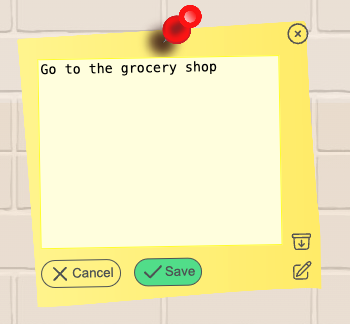
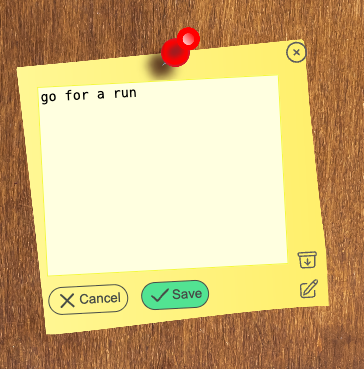
refactored css, changed background

diff --git a/src/App.scss b/src/App.scss
@@ -1,3 +1,5 @@
+@import "./variables.scss";
+
 * {
   box-sizing: border-box;
 }
@@ -6,14 +8,10 @@ body {
   margin: 0;
   font-family: Arial, Helvetica, sans-serif;
   min-height: auto;
-  background: #8a8599;
-  background: linear-gradient(
-    0deg,
-    rgba(138, 133, 153, 1) 0%,
-    rgba(191, 205, 222, 1) 100%
-  );
+  background-image: url("../src/assets/wooden-desk2.jpg");
+  background-size: cover;
   height: 100vh;
-  color: #474c47;
+  color: $dark-grey;
 }
 
 .homepage-container {
@@ -35,7 +33,7 @@ body {
     max-width: 100%;
     padding: 10px;
     outline: none;
-    border: 2px solid rgb(244 248 61);
+    border: 2px solid #{$citrus-color};
     border-bottom: 0;
   }
 
@@ -43,10 +41,10 @@ body {
     width: 100%;
     text-transform: uppercase;
     font-weight: bold;
-    background-color: rgb(244 248 61);
+    background-color: $citrus-color;
 
-    color: #474c47;
-    border: 1px solid rgb(244 248 61);
+    color: $dark-grey;
+    border: 1px solid $citrus-color;
 
     font-size: 16px;
     cursor: pointer;
@@ -55,8 +53,8 @@ body {
     outline: none;
 
     &:hover {
-      background-color: rgb(245, 195, 11);
-      border: 1px solid rgb(245, 195, 11);
+      background-color: $dark-yellow;
+      border: 1px solid $dark-yellow;
     }
   }
 }
@@ -64,7 +62,7 @@ body {
 .char-limit {
   font-size: smaller;
   font-family: "Courier New", Courier, monospace;
-  color: rgb(88, 94, 94);
+  color: $dark-grey;
 }
 
 .note {
@@ -96,7 +94,7 @@ body {
     .edit-input {
       min-height: 190px;
       max-height: 400px;
-      border: 1px solid yellow;
+      border: 1px solid $citrus-color;
       margin-bottom: 0.5em;
       background-color: lightyellow;
       width: 100%;
@@ -106,25 +104,25 @@ body {
     .cancel-btn {
       background-color: transparent;
       margin-right: 1em;
-      color: rgb(88, 94, 94);
-      border: 1px solid rgb(88, 94, 94);
+      color: $dark-grey;
+      border: 1px solid $dark-grey;
     }
 
     .cancel-btn:hover {
       transition: 0.2s ease-in;
-      background-color: #efbd3c;
+      background-color: $dark-yellow;
     }
 
     .save-btn {
       background-color: rgb(82 227 146);
-      color: rgb(88, 94, 94);
-      border: 1px solid rgb(88, 94, 94);
+      color: $dark-grey;
+      border: 1px solid $dark-grey;
     }
 
     .save-btn:hover {
       transition: 0.2s ease-in;
       background-color: rgb(20 178 90);
-      color: rgb(88, 94, 94);
+      color: $dark-grey;
     }
   }
 

diff --git a/src/components/Archive Drawer/ArchivedNotesDrawer.scss b/src/components/Archive Drawer/ArchivedNotesDrawer.scss
@@ -1,3 +1,5 @@
+@import "../../variables.scss";
+
 .drawer {
   padding: 40px;
   scroll-behavior: smooth;
@@ -5,14 +7,14 @@
   z-index: 3;
   h1 {
     font-family: "Sriracha", serif;
-    color: rgb(92, 73, 73);
+    color: $dark-grey;
   }
 
   .delete-all-btn {
     padding: 10px 20px;
     background: transparent;
-    color: rgb(184 7 7);
-    border: 1px solid rgb(184 7 7);
+    color: $dark-red;
+    border: 1px solid $dark-red;
     font-weight: bold;
   }
 }
@@ -27,7 +29,7 @@
   .archived-postit {
     width: 300px;
     aspect-ratio: 1 / 1;
-    background-color: rgb(255, 242, 125, 0.8);
+    background-color: $citrus-color;
     padding: 15px 10px;
     display: flex;
 

diff --git a/src/components/NavBar/NavBar.scss b/src/components/NavBar/NavBar.scss
@@ -1,3 +1,5 @@
+@import "../../variables.scss";
+
 .navbar {
   display: flex;
   justify-content: space-between;
@@ -7,7 +9,7 @@
   position: sticky;
   top: 0;
   z-index: 1;
-  background: rgb(244 248 61 / 79%);
+  background: #{$citrus-faded-color};
   font-family: "Sriracha", serif;
 
   .navbar-left {

diff --git a/src/components/Weather Feature/weatherWidget.scss b/src/components/Weather Feature/weatherWidget.scss
@@ -1,3 +1,5 @@
+@import "../../variables.scss";
+
 .weather-btn {
   display: flex;
   align-items: center;
@@ -10,7 +12,7 @@
   font-size: 1rem;
   cursor: pointer;
   border-radius: 20px;
-  background-color: #00000066;
+  background-color: $black-transparent;
   color: white;
   height: 50px;
 }

diff --git a/src/variables.scss b/src/variables.scss
@@ -1,0 +1,6 @@
+$citrus-color: #f4f83d;
+$citrus-faded-color: rgb(244 248 61 / 90%);
+$dark-yellow: #f5c30b;
+$dark-grey: #474c47;
+$dark-red: #b80707;
+$black-transparent: rgba(0, 0, 0, 0.6);
